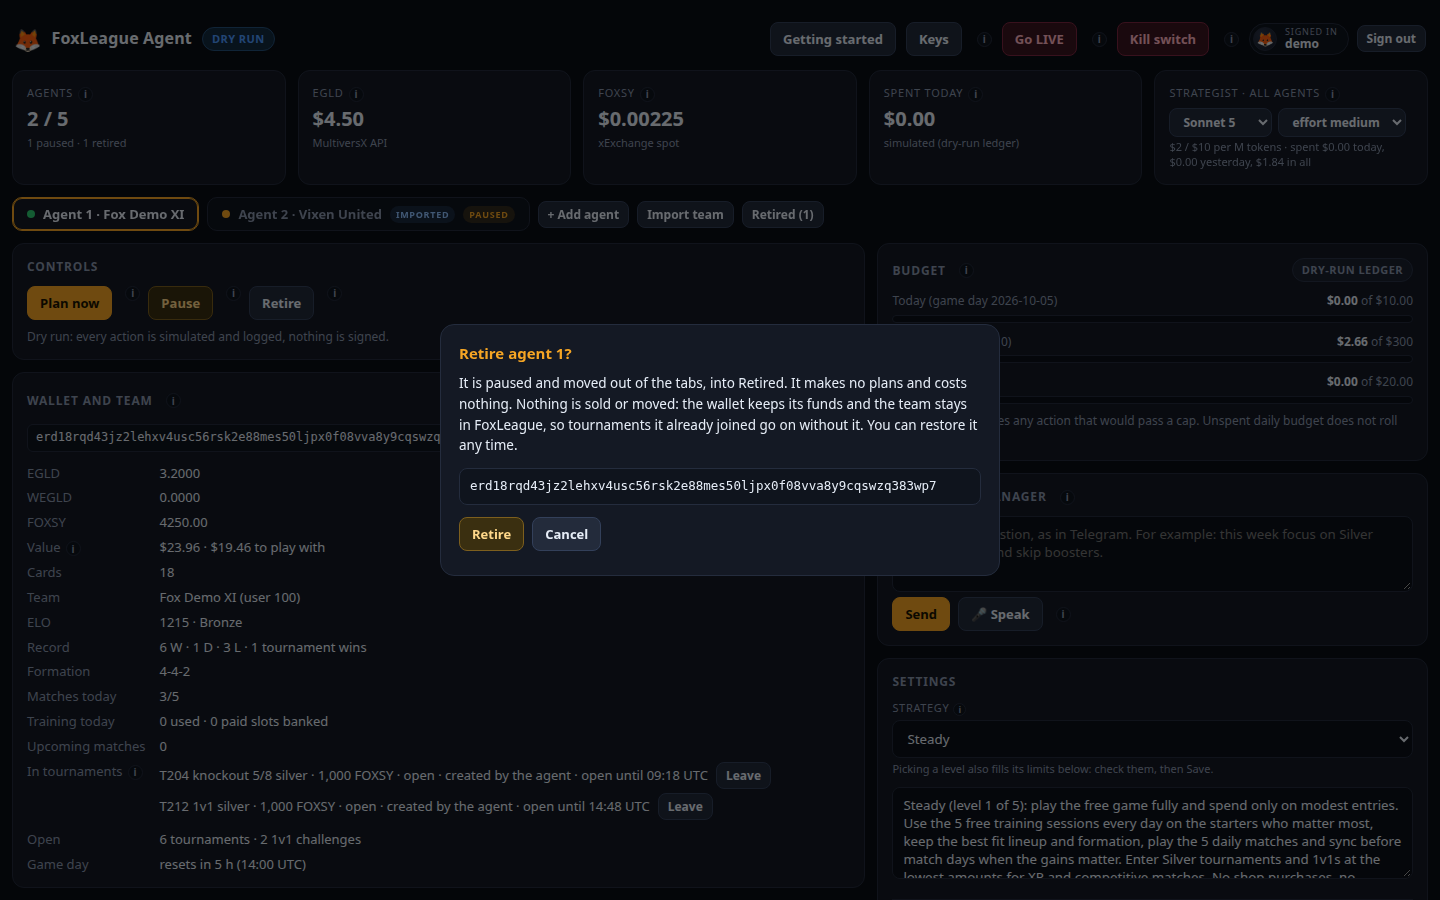
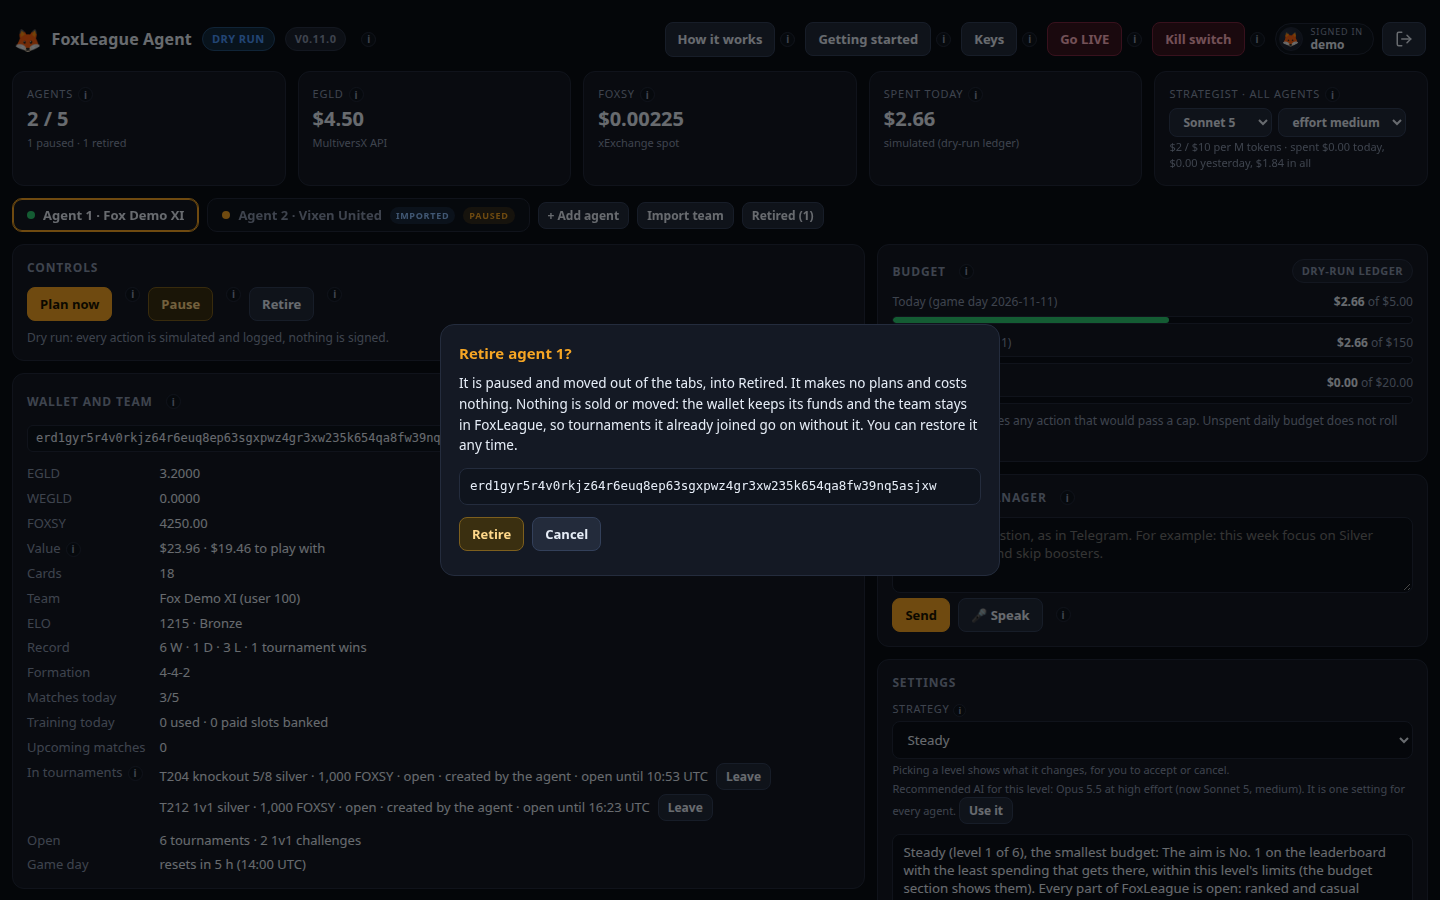
The manual's screenshots taken again on the dashboard as it is, with the site's script on its demo agents (DOCS-13)

diff --git a/test/audit-1111/docs-13.test.ts b/test/audit-1111/docs-13.test.ts
@@ -1,0 +1,41 @@
+// Audit 2026-11-11 (Fable 5.2 reviewers at extra-high effort): DOCS-13. The manual's eleven screenshots dated from
+// 2026-10-06 and showed a dashboard that no longer exists (five levels, no limits per rarity, no counts, the old AI
+// cost). They were taken again on 2026-11-11 with site/scripts/screenshots.ts, on its throwaway demo agents.
+// What an image shows cannot be read here, so this file holds what can be: every screenshot a page names exists
+// and is one the script takes, and the script uses made-up data only (no key, no wallet and no service of the
+// machine it runs on).
+import { test } from 'node:test'
+import assert from 'node:assert/strict'
+import { readFileSync, readdirSync, statSync } from 'node:fs'
+import { fileURLToPath } from 'node:url'
+import { join } from 'node:path'
+
+const ROOT = fileURLToPath(new URL('../../', import.meta.url))
+const DOCS = join(ROOT, 'site/src/content/docs')
+const SHOTS = join(ROOT, 'site/public/screenshots')
+const pages = (dir: string): string[] => readdirSync(dir, { withFileTypes: true }).flatMap(e => (e.isDirectory() ? pages(join(dir, e.name)) : /\.mdx?$/.test(e.name) ? [join(dir, e.name)] : []))
+
+test('DOCS-13 every screenshot a page of the manual names exists, and the script writes each of them', () => {
+  const named = new Set(pages(DOCS).flatMap(p => [...readFileSync(p, 'utf8').matchAll(/\]\(\/screenshots\/([a-z0-9-]+\.png)\)/g)].map(m => m[1]!)))
+  const files = readdirSync(SHOTS).filter(f => f.endsWith('.png'))
+  assert.equal(named.size, 10)
+  // The script takes one more (add-agent.png), which no page shows today.
+  assert.equal(files.length, 11)
+  const script = readFileSync(join(ROOT, 'site/scripts/screenshots.ts'), 'utf8')
+  for (const f of named) {
+    assert.ok(files.includes(f), `${f} is named on a page and is not there`)
+    assert.ok(script.includes(`shot('${f.replace(/\.png$/, '')}'`), `${f} is not taken by the script, so it cannot be retaken`)
+  }
+  for (const f of files) assert.ok(statSync(join(SHOTS, f)).size > 10_000, `${f} is an image`)
+})
+
+test('DOCS-13 the script takes them on demo data only: a new throwaway wallet, demo keys, no upstream it could reach', () => {
+  const script = readFileSync(join(ROOT, 'site/scripts/screenshots.ts'), 'utf8')
+  assert.match(script, /mnemonic: Mnemonic\.generate\(\)\.toString\(\), dataDir: dir, gatewayUrl: 'http:\/\/127\.0\.0\.1:9', apiUrl: 'http:\/\/127\.0\.0\.1:9', foxleagueUrl: 'http:\/\/127\.0\.0\.1:9'/)
+  assert.match(script, /const dir = mkdtempSync\(join\(tmpdir\(\), 'foxagent-demo-'\)\)/)
+  assert.match(script, /process\.env\.ANTHROPIC_API_KEY = 'sk-ant-api03-DEMOdemo/)
+  assert.match(script, /delete process\.env\.BINANCE_API_KEY\ndelete process\.env\.BINANCE_API_SECRET/)
+  // It never starts the service (no scheduler, no Telegram reader, no update check) and never loads an env file.
+  assert.doesNotMatch(script, /svc\.start\(\)|loadConfig\(|loadEnvFile\(/)
+  assert.match(readFileSync(join(ROOT, 'site/README.md'), 'utf8'), /node --disable-warning=ExperimentalWarning site\/scripts\/screenshots\.ts/)
+})
